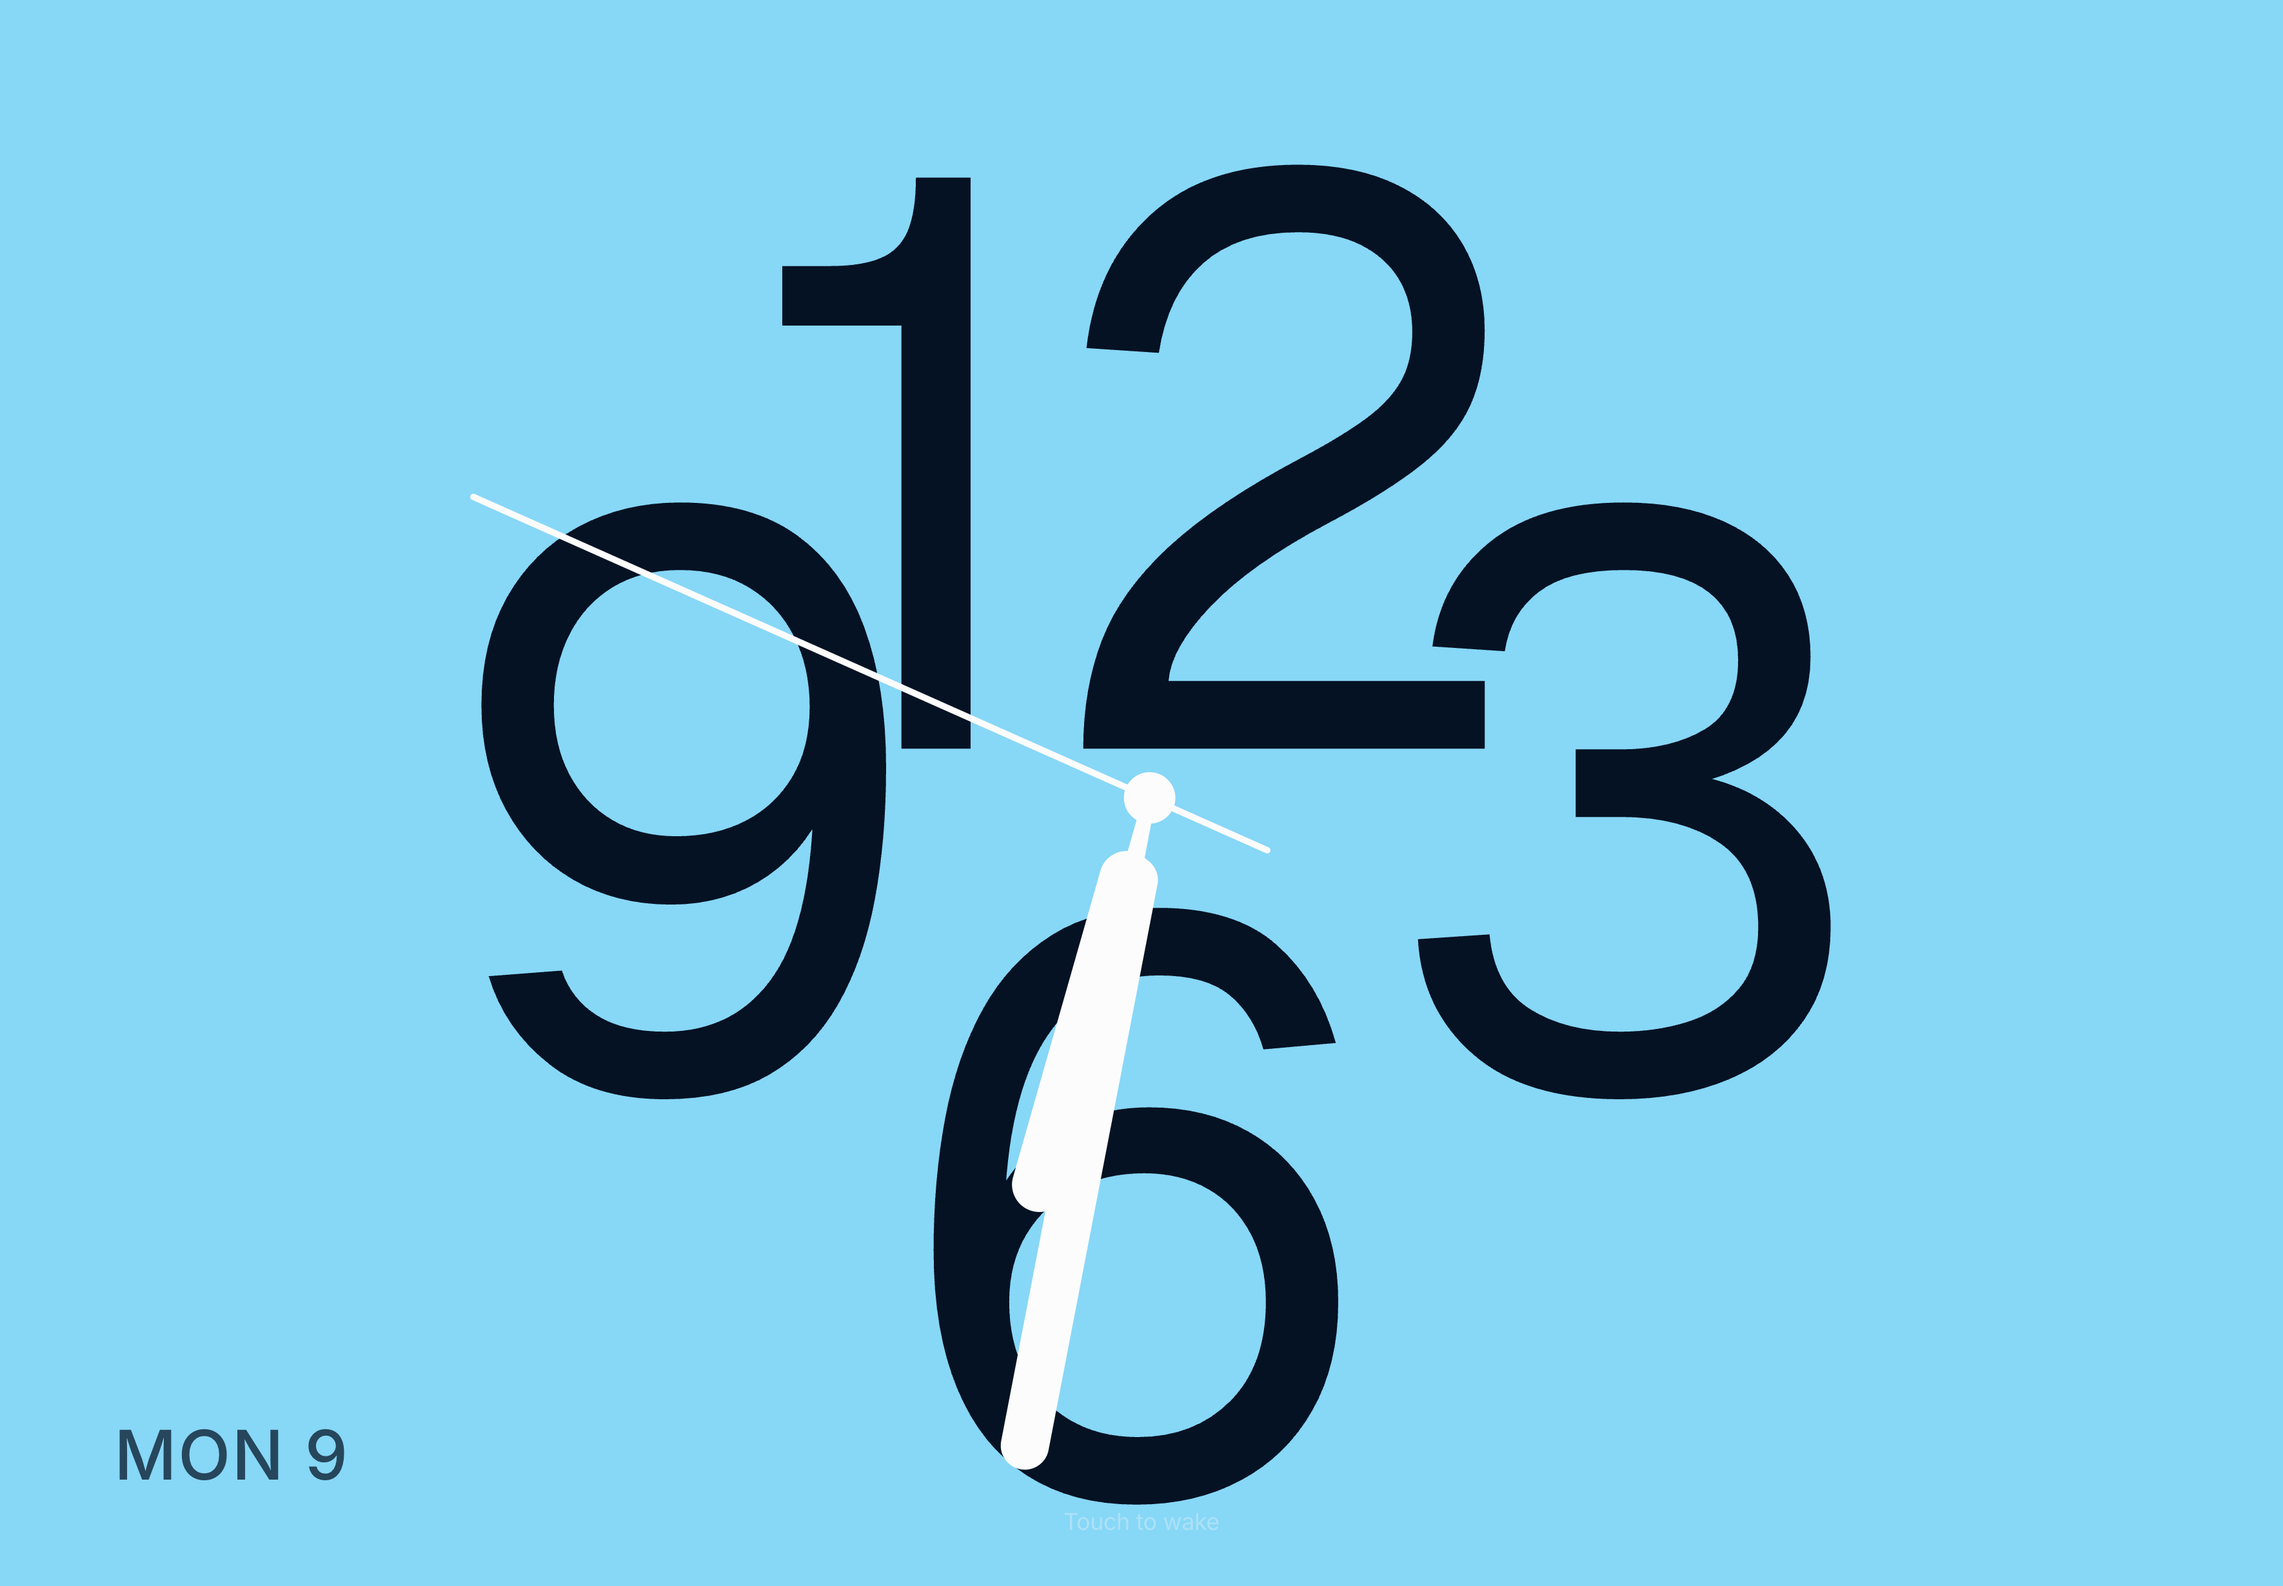
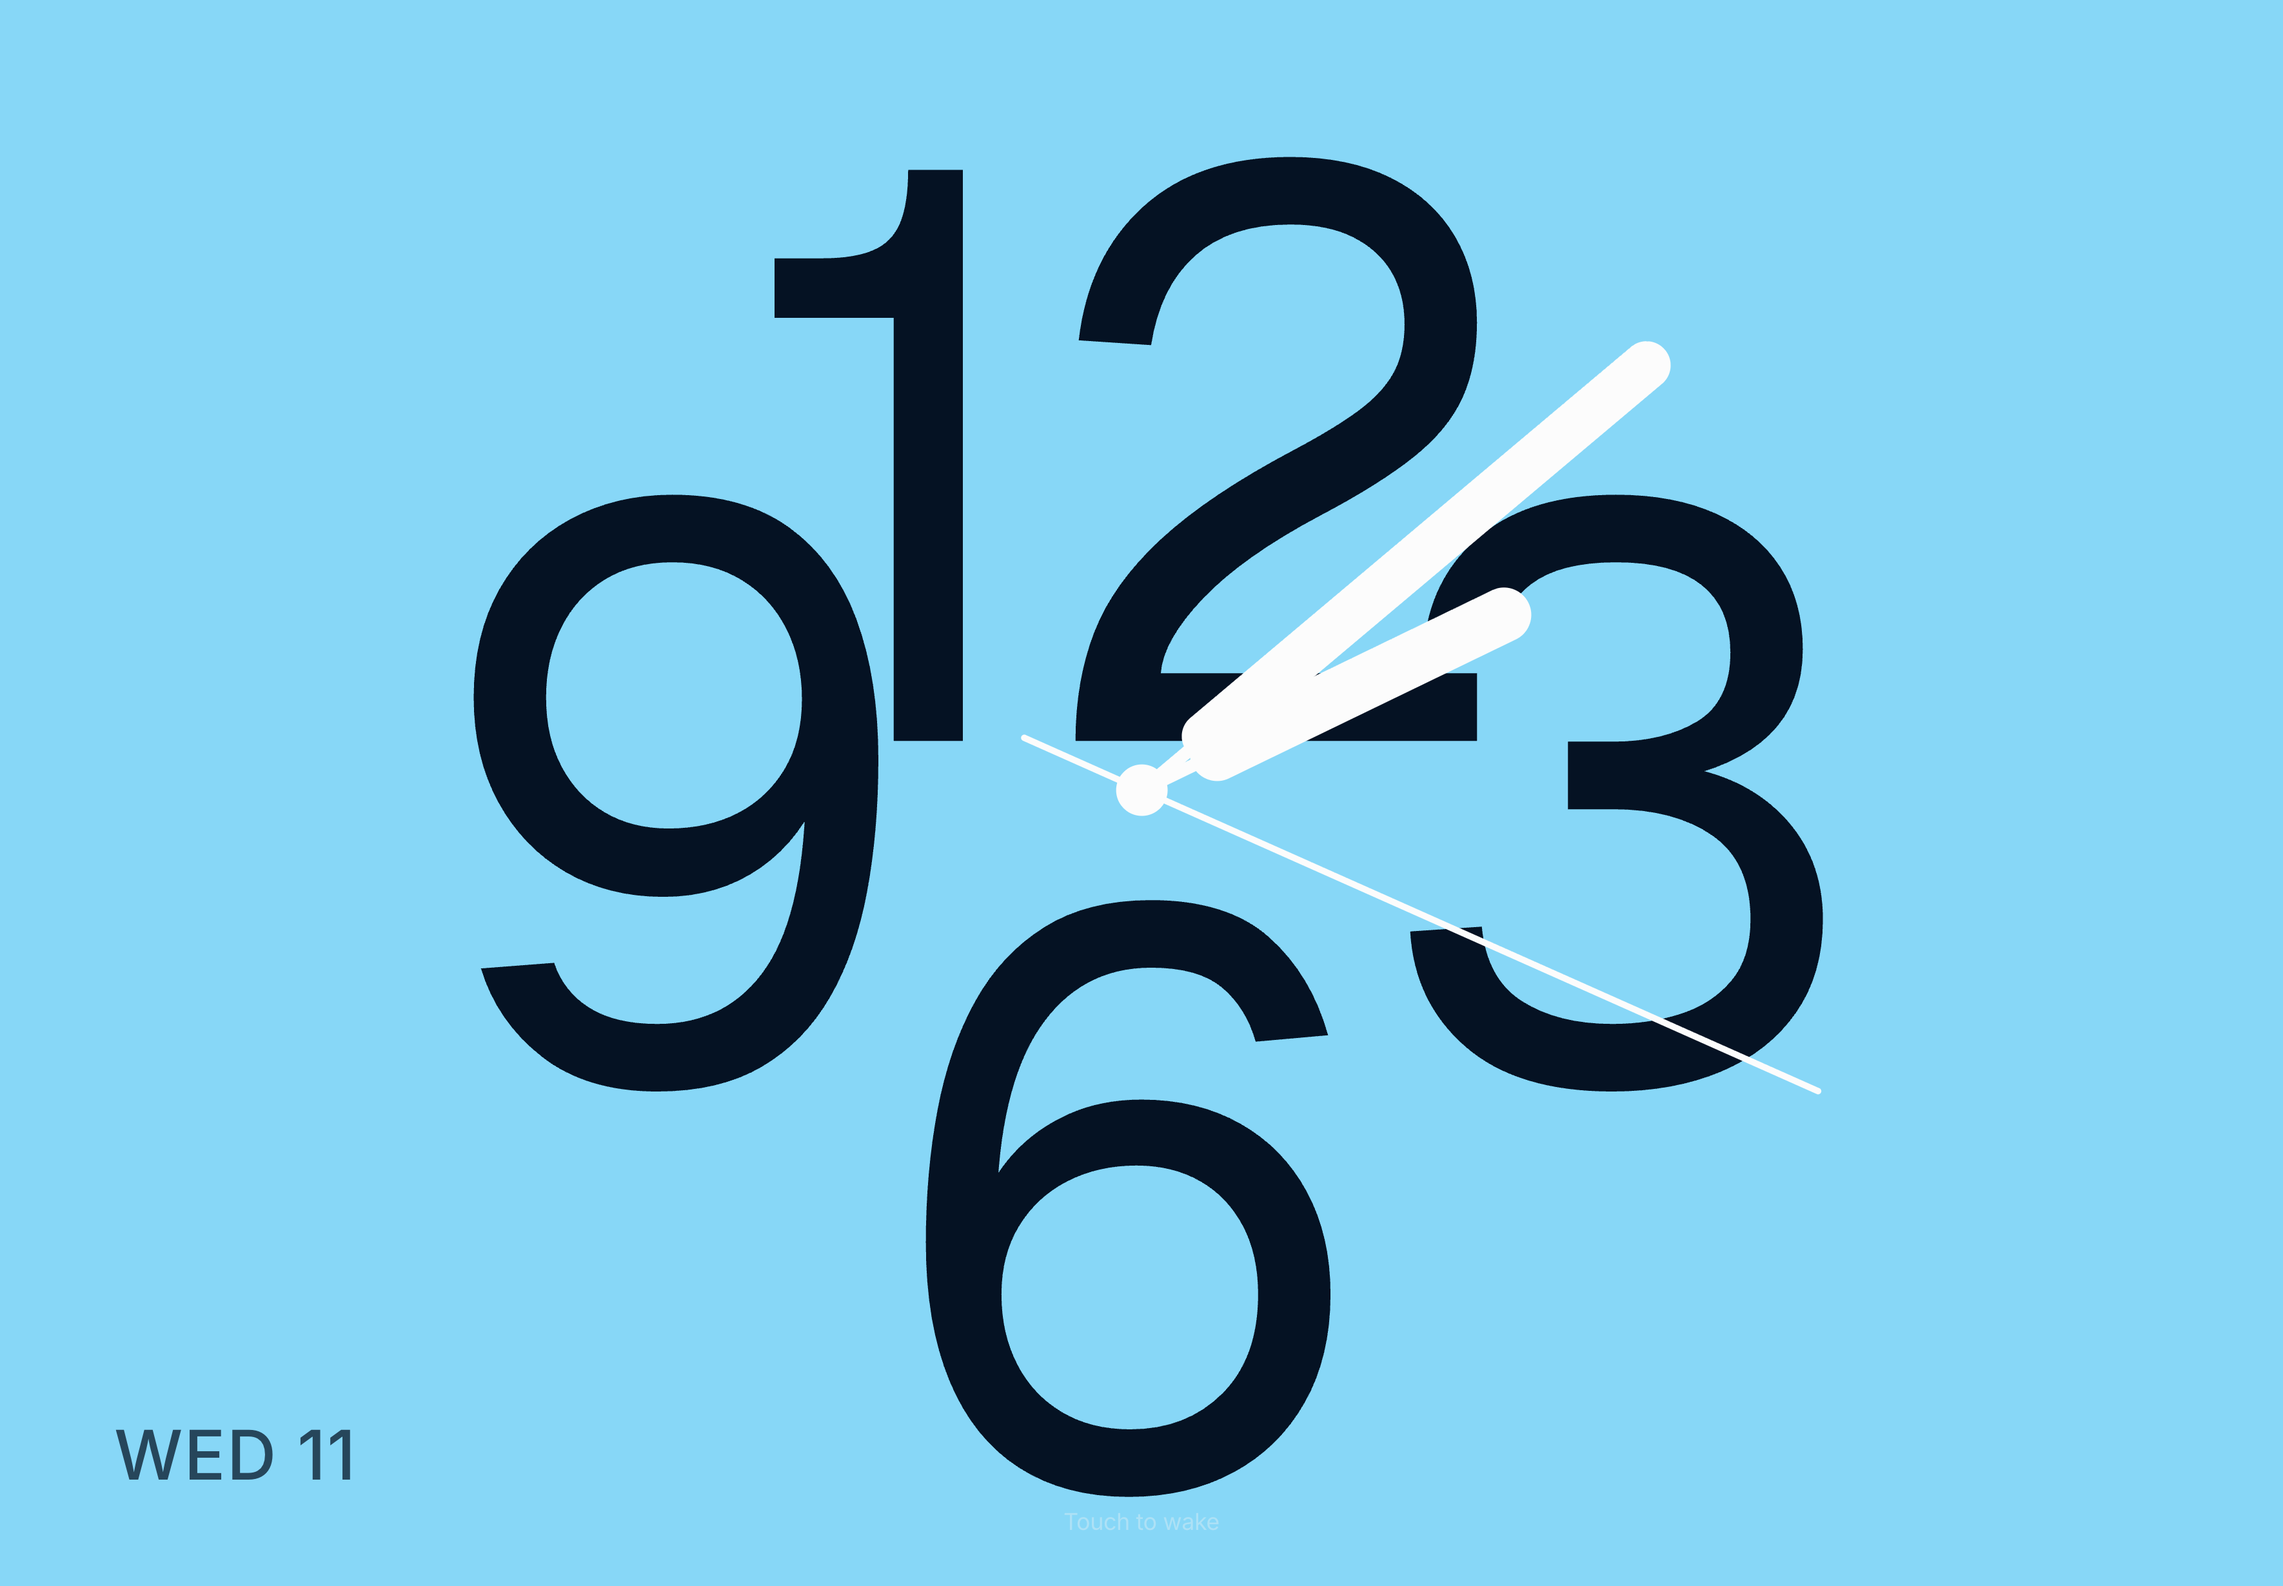
Fresh screenshots with the luxury dial, and tidier moments on the landing page
The hero, the analog rest screen, and a new luxury dial shot are taken again
from the current app, on the site and in the README. In the landing page's
demo the fans' glow is no longer cut off at the edge of the scene, the lock
and garage draw smaller, the garage roof sits on the house, the door stands on
its own without a grey wall, and the window's glass shows the night sky with a
moon and stars when it opens. The list names things plainly: Door lock, Door,
Window.

diff --git a/src/components/shell/device-moment.tsx b/src/components/shell/device-moment.tsx
@@ -351,7 +351,7 @@ export function GarageScene({ open, small = false }: { open: boolean; small?: bo
           <path d="M 40 196 L 200 196 L 238 220 L 2 220 Z" className={styles.drive} />
           <path d="M 8 80 L 104 34 Q 120 26 136 34 L 232 80 L 232 196 L 8 196 Z" className={styles.house} />
           {[96, 112, 128, 144, 160, 176].map(y => <line key={y} x1={10} x2={230} y1={y} y2={y} className={styles.siding} />)}
-          <path d="M 2 83 L 103 29 Q 120 20 137 29 L 238 83" className={styles.roof} />
+          <path d="M 2 86 L 103 32 Q 120 23 137 32 L 238 86" className={styles.roof} />
           <rect x={40} y={86} width={160} height={110} fill={`url(#${id}-inside)`} />
           <motion.g initial={{ opacity: open ? 0 : 1 }} animate={{ opacity: open ? 1 : 0 }} transition={light}>
             <rect x={40} y={86} width={160} height={110} fill={`url(#${id}-lamp)`} />
@@ -396,7 +396,6 @@ export function DoorScene({ open, small = false }: { open: boolean; small?: bool
               <stop offset="1" stopColor="oklch(85% .08 80)" stopOpacity="0" />
             </linearGradient>
           </defs>
-          <rect x={20} y={14} width={160} height={186} rx={4} className={styles.house} />
           <rect x={62} y={34} width={76} height={166} fill="oklch(10% .01 250)" />
           <motion.g initial={{ opacity: open ? 0 : 1 }} animate={{ opacity: open ? 1 : 0 }} transition={{ duration: reduce ? 0 : .7, delay: reduce ? 0 : open ? .35 : 1.1 }}>
             <rect x={62} y={34} width={76} height={166} fill={`url(#${id}-glow)`} />
@@ -434,8 +433,11 @@ export function WindowScene({ open, small = false }: { open: boolean; small?: bo
           </defs>
           <rect x={10} y={10} width={180} height={180} rx={6} className={styles.house} />
           <rect x={46} y={26} width={108} height={140} fill={`url(#${id}-sky)`} />
-          <circle cx={122} cy={58} r={11} fill="oklch(94% .04 95)" />
-          {[[66, 46], [84, 70], [138, 92], [70, 112], [108, 38]].map(([x, y]) => <circle key={`${x}-${y}`} cx={x} cy={y} r={1.6} fill="oklch(96% .02 95)" />)}
+          <circle cx={124} cy={124} r={12} fill="oklch(94% .04 95)" />
+          <circle cx={130} cy={119} r={10} fill="oklch(32% .065 255)" />
+          {[[60, 108], [78, 140], [100, 116], [146, 150], [66, 156], [112, 152], [92, 100], [140, 104], [70, 52], [118, 40], [136, 70]].map(([x, y], index) => (
+            <circle key={`${x}-${y}`} cx={x} cy={y} r={index % 3 ? 1.3 : 1.9} fill="oklch(96% .02 95)" className={styles.star} style={{ animationDelay: `${(index * .37) % 2.4}s` }} />
+          ))}
           <path d="M 46 166 L 46 26 L 154 26 L 154 166" className={styles.frame} />
           <rect x={36} y={166} width={128} height={9} rx={2} className={styles.sill} />
         </svg>

diff --git a/src/components/landing/moment-demo.tsx b/src/components/landing/moment-demo.tsx
@@ -5,15 +5,16 @@ import { Switch } from "@/components/arc/switch/switch";
 import { MomentScene, type MomentPreviewScene } from "@/components/shell/device-moment";
 import styles from "./moment-demo.module.css";
 
-const SCENES: { scene: MomentPreviewScene; name: string; words: [string, string] }[] = [
-  { scene: "light", name: "Lamp", words: ["On", "Off"] },
-  { scene: "chandelier", name: "Chandelier", words: ["On", "Off"] },
-  { scene: "fan", name: "Ceiling fan", words: ["On", "Off"] },
-  { scene: "standingFan", name: "Standing fan", words: ["On", "Off"] },
-  { scene: "lock", name: "Front door lock", words: ["Locked", "Unlocked"] },
-  { scene: "garage", name: "Garage door", words: ["Open", "Closed"] },
-  { scene: "door", name: "Back door", words: ["Open", "Closed"] },
-  { scene: "window", name: "Bedroom window", words: ["Open", "Closed"] },
+/** `label` is the list's plain name; `name` is the device as the tablet would show it. */
+const SCENES: { scene: MomentPreviewScene; label: string; name: string; words: [string, string] }[] = [
+  { scene: "light", label: "Lamp", name: "Lamp", words: ["On", "Off"] },
+  { scene: "chandelier", label: "Chandelier", name: "Chandelier", words: ["On", "Off"] },
+  { scene: "fan", label: "Ceiling fan", name: "Ceiling fan", words: ["On", "Off"] },
+  { scene: "standingFan", label: "Standing fan", name: "Standing fan", words: ["On", "Off"] },
+  { scene: "lock", label: "Door lock", name: "Front door lock", words: ["Locked", "Unlocked"] },
+  { scene: "garage", label: "Garage door", name: "Garage door", words: ["Open", "Closed"] },
+  { scene: "door", label: "Door", name: "Door", words: ["Open", "Closed"] },
+  { scene: "window", label: "Window", name: "Bedroom window", words: ["Open", "Closed"] },
 ];
 
 /** The wall tablet's moments to try: pick a device, flip its switch, and watch the change play on the tablet. */
@@ -28,7 +29,7 @@ export function MomentDemo() {
     <div className={styles.demo}>
       <div role="radiogroup" aria-label="Device" className={styles.list}>
         {SCENES.map((item, index) => (
-          <button key={item.scene} type="button" role="radio" aria-checked={index === chosen} className={styles.choice} onClick={() => choose(index)}>{item.name}</button>
+          <button key={item.scene} type="button" role="radio" aria-checked={index === chosen} className={styles.choice} onClick={() => choose(index)}>{item.label}</button>
         ))}
       </div>
       <div className={styles.side}>

diff --git a/src/components/landing/landing.tsx b/src/components/landing/landing.tsx
@@ -12,7 +12,7 @@ import { useRouter } from "next/navigation";
 import ipad from "./shots/ipad.webp";
 import ipadDark from "./shots/ipad-dark.webp";
 import analog from "./shots/wall-analog.webp";
-import analogWarm from "./shots/wall-analog-warm.webp";
+import luxury from "./shots/wall-luxury.webp";
 import thermostat from "./shots/thermostat-cool.webp";
 import thermostatDark from "./shots/thermostat-cool-dark.webp";
 import activity from "./shots/activity.webp";
@@ -119,10 +119,10 @@ export function Landing() {
           <motion.div className={styles.restCopy} {...rise()}>
             <h2 className={styles.heading}>When nobody is looking</h2>
             <p className={styles.body}>
-              After a few quiet minutes the wall tablet rests on a clock you can read across the room: an analog face in the colour you pick, or large digits. It dims at night, and wakes when someone walks by or rings the bell.
+              After a few quiet minutes the wall tablet rests on a clock you can read across the room: an analog face in the colour you pick, a luxury dial with Roman numerals, or large digits. It dims at night, and wakes when someone walks by or rings the bell.
             </p>
             <ul className={styles.points}>
-              <li>Analog or digital, in the colour and brightness you pick</li>
+              <li>Analog, luxury, or digital, in the colour and brightness you pick</li>
               <li>Night dim, and an optional red clock after dark</li>
               <li>A photo frame from your own pictures or Immich</li>
               <li>Wakes on motion, a door opening, or the doorbell</li>
@@ -130,7 +130,7 @@ export function Landing() {
           </motion.div>
           <motion.div className={styles.restShots} {...rise(0.1)}>
             <Image unoptimized src={analog} alt="The wall tablet resting on an analog face: large overlapping numerals behind white hands" className={styles.restShot} sizes="(min-width: 900px) 560px, 92vw" />
-            <Image unoptimized src={analogWarm} alt="The analog face in a warm colour" className={`${styles.restShot} ${styles.restShotBack}`} sizes="(min-width: 900px) 420px, 70vw" />
+            <Image unoptimized src={luxury} alt="The wall tablet resting on the luxury dial: Roman numerals and sword hands on a deep green face" className={`${styles.restShot} ${styles.restShotBack}`} sizes="(min-width: 900px) 420px, 70vw" />
           </motion.div>
         </section>
 

diff --git a/src/components/shell/device-moment.module.css b/src/components/shell/device-moment.module.css
@@ -422,6 +422,7 @@
 /* Window: the lower sash slides up behind the upper one. */
 .windowBox {
   position: relative;
+  container-type: inline-size;
   width: 82%;
   aspect-ratio: 1;
 }
@@ -443,9 +444,6 @@
   height: 50%;
   display: grid;
   grid-template-columns: 1fr 1fr;
-  gap: 4%;
-  padding: 4%;
-  background: oklch(88% .01 250);
 }
 
 .sashUpper {
@@ -457,8 +455,22 @@
   top: 50%;
 }
 
+/* Each pane is glass in a white frame, so the sky shows through both sashes. */
 .pane {
-  background: linear-gradient(135deg, oklch(80% .03 230 / .28), oklch(80% .03 230 / .08) 55%, oklch(100% 0 0 / .18));
+  border: clamp(2px, .9cqw, 5px) solid oklch(88% .01 250);
+  background: linear-gradient(135deg, oklch(80% .03 230 / .22), oklch(80% .03 230 / .05) 55%, oklch(100% 0 0 / .14));
+}
+
+.star {
+  animation: twinkle 2.4s ease-in-out infinite;
+}
+
+@keyframes twinkle {
+  50% { opacity: .35; }
+}
+
+@media (prefers-reduced-motion: reduce) {
+  .star { animation: none; }
 }
 
 .sashHandle {
@@ -482,8 +494,16 @@
   place-items: center;
   width: 100%;
   height: 100%;
-  overflow: hidden;
   isolation: isolate;
+}
+
+/* The lock and garage are drawn at the size of the notice card; a frame this size wants them smaller. */
+.preview .padlock {
+  width: 42%;
+}
+
+.preview .garageBox {
+  width: 90%;
 }
 
 .preview .stage {

diff --git a/README.md b/README.md
@@ -27,10 +27,12 @@ Hearth sits on top of the Home Assistant you already run. It does not replace it
 <table>
   <tr>
     <td><img src="docs/screenshots/wall-analog.png" alt="The wall tablet resting on the analog clock face"></td>
+    <td><img src="docs/screenshots/wall-luxury.png" alt="The wall tablet resting on the luxury dial"></td>
     <td><img src="docs/screenshots/dashboard-dark.png" alt="The dashboard in dark mode"></td>
   </tr>
   <tr>
     <td align="center">At rest</td>
+    <td align="center">Luxury dial</td>
     <td align="center">Dark mode</td>
   </tr>
 </table>
